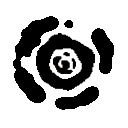
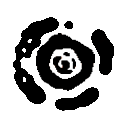
Update to readme
Update to version 3.0 symbols as noted here
https://i.imgur.com/waBwEdH.png

Added instructions and attribution to bottom of page.

Recompiled composites with the new image layout.

diff --git a/index.html b/index.html
@@ -24,6 +24,7 @@
     <div class="container">
 
       <div class="panel">
+        
         <div class="row">
           <div class="col-4">
               <div class="row">
@@ -101,13 +102,22 @@
               <div class="col-12 ring-group canonn-ring-outer">
                   <button type="button" class="btn btn-secondary" value="4A"><img src="images/symbols/4A.png"></button>
                   <button type="button" class="btn btn-secondary" value="4B"><img src="images/symbols/4B.png"></button>
+                  <button type="button" class="btn btn-secondary" value="4C"><img src="images/symbols/4C.png"></button>
                   <button type="button" class="btn btn-secondary" value="4D"><img src="images/symbols/4D.png"></button>
                   <button type="button" class="btn btn-secondary" value="4E"><img src="images/symbols/4E.png"></button>
                   <button type="button" class="btn btn-secondary" value="4F"><img src="images/symbols/4F.png"></button>
-                  <button type="button" class="btn btn-secondary" value="4G"><img src="images/symbols/4G.png"></button>
-                  <button type="button" class="btn btn-secondary" value="4H"><img src="images/symbols/4H.png"></button>
+                  
+                  
               </div>
             </div>
+
+            <div class="row">
+              <div class="col-12 ring-group canonn-ring-outer">
+                  <button type="button" class="btn btn-secondary" value="5A"><img src="images/symbols/5A.png"></button>
+              </div>
+            </div>
+
+            
 
             <div class="row">
               <div class="col-12 ring-group canonn-ring-outer">
@@ -115,6 +125,23 @@
               </div>
             </div>
 
+          </div>
+        </div>
+
+        <div class="row">
+          <div class="col-12">
+            <p>
+            Symbol Version 3.0 updated 11/10/2017
+            </p>
+            <p>
+            Select the Inner Ring component, and then choose the corresponding Outer Ring component to step through all the various combinations until you get the mix you want.
+            </p>
+
+            <p>Copy from the Image field to paste a direct link to the chosen combination wherever you want to refer to and display that glyph combination, on the forums or in a Discord chat.</p>
+
+            <p>This tool will continue to be extended and further information added as more analysis becomes available.</p>
+
+            <p>This work would not have been possible without the pioneering research of CMDR Orodir, CMDR Olivia Vespera and other commanders <a target="blank" href="https://forums.frontier.co.uk/showthread.php/379844-Xenobiology-study-of-Thargoid-Ship-Logograms-Compendium">documented here</a></p>
           </div>
         </div>
               

diff --git a/README.md b/README.md
@@ -1,1 +1,12 @@
 # Valknut
+
+Symbol Version 3.0 updated 11/10/2017
+            
+# How to use            
+Select the Inner Ring component, and then choose the corresponding Outer Ring component to step through all the various combinations until you get the mix you want.
+
+Copy from the Image field to paste a direct link to the chosen combination wherever you want to refer to and display that glyph combination, on the forums or in a Discord chat.
+
+# Attribution
+This work would not have been possible without the pioneering research of CMDR Orodir, CMDR Olivia Vespera and other commanders documented here
+https://forums.frontier.co.uk/showthread.php/379844-Xenobiology-study-of-Thargoid-Ship-Logograms-Compendium
